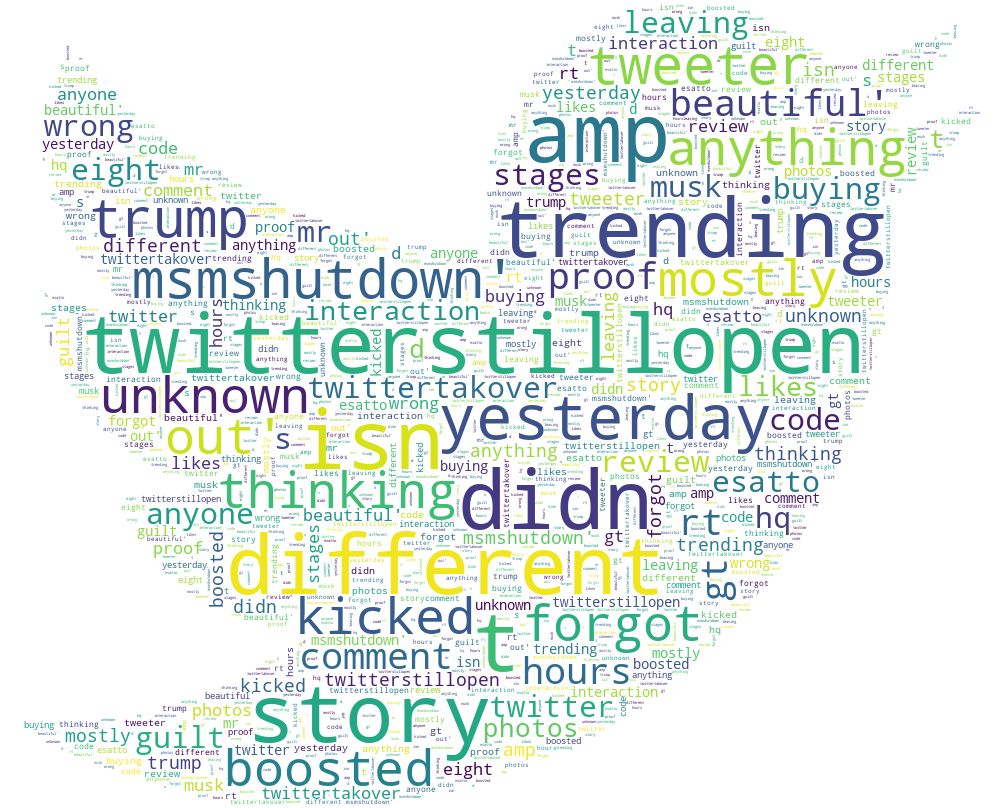
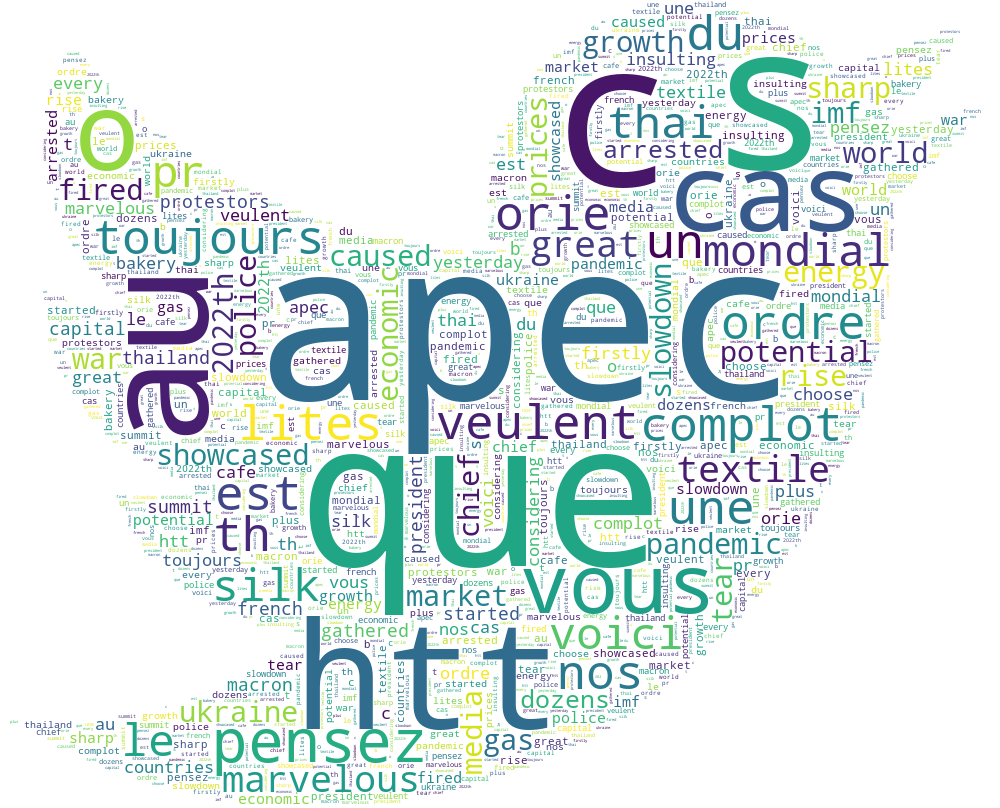
con't transition img

diff --git a/templates/main.js b/templates/main.js
@@ -1,4 +1,4 @@
-let keyword = "blackpink";
+let keyword = "twitter";
 // let edit_save = document.getElementById("img");
 // edit_save.src = "./result/wc-all.png"; 
 

diff --git a/sentiment.py b/sentiment.py
@@ -209,7 +209,7 @@ def inputkeyword(keyword, noOfTweet, select) :
    return 
 
 #input from user 
-keyword = input("Please enter keyword or hashtag to search: ")
-noOfTweet = int(input ("Please enter how many tweets to analyze: "))
-select = int(input("Please enter 1 Positive | 2 Negative | 3 Neutral | 4 All : "))
-inputkeyword(keyword, noOfTweet, select) 
+# keyword = input("Please enter keyword or hashtag to search: ")
+# noOfTweet = int(input ("Please enter how many tweets to analyze: "))
+# select = int(input("Please enter 1 Positive | 2 Negative | 3 Neutral | 4 All : "))
+# inputkeyword(keyword, noOfTweet, select) 
